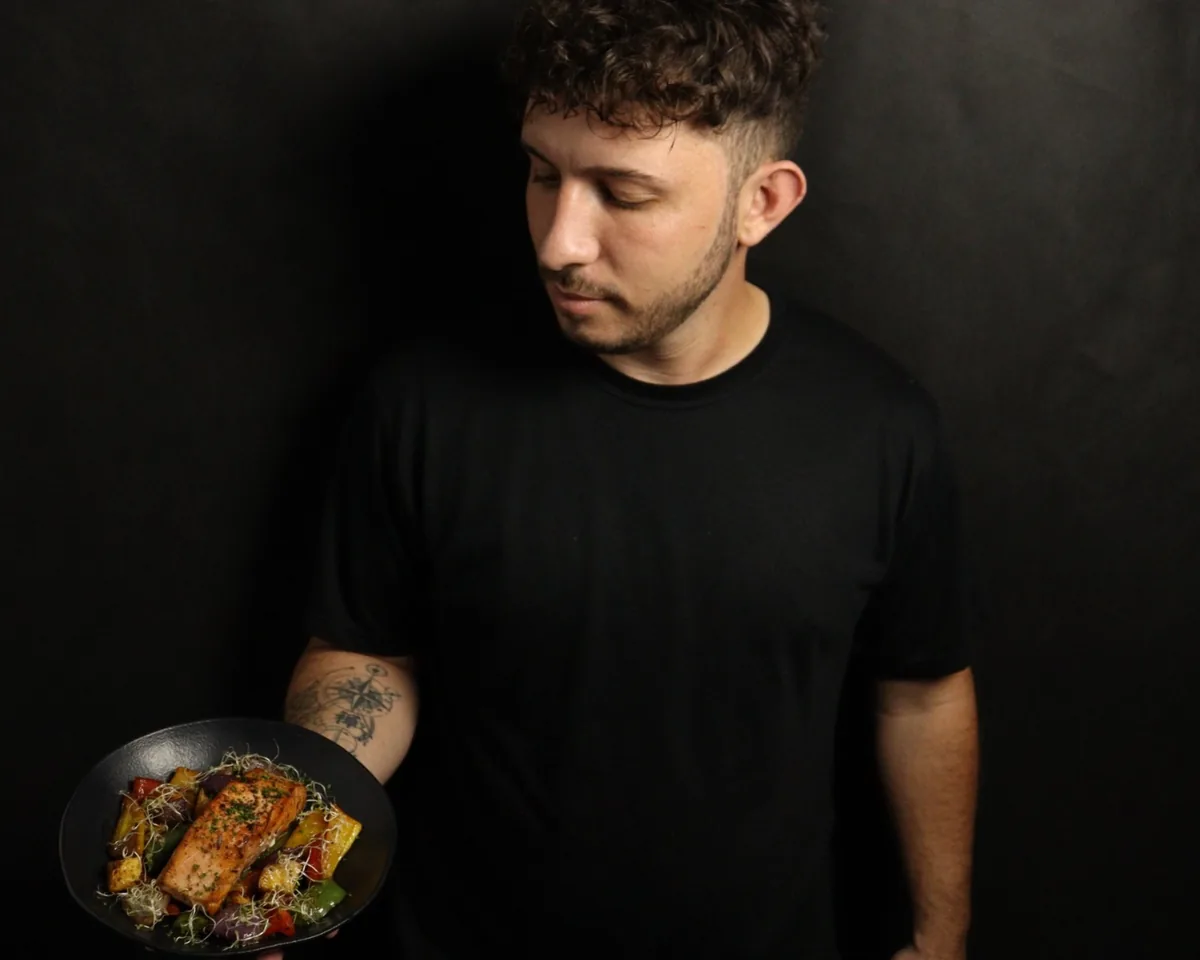
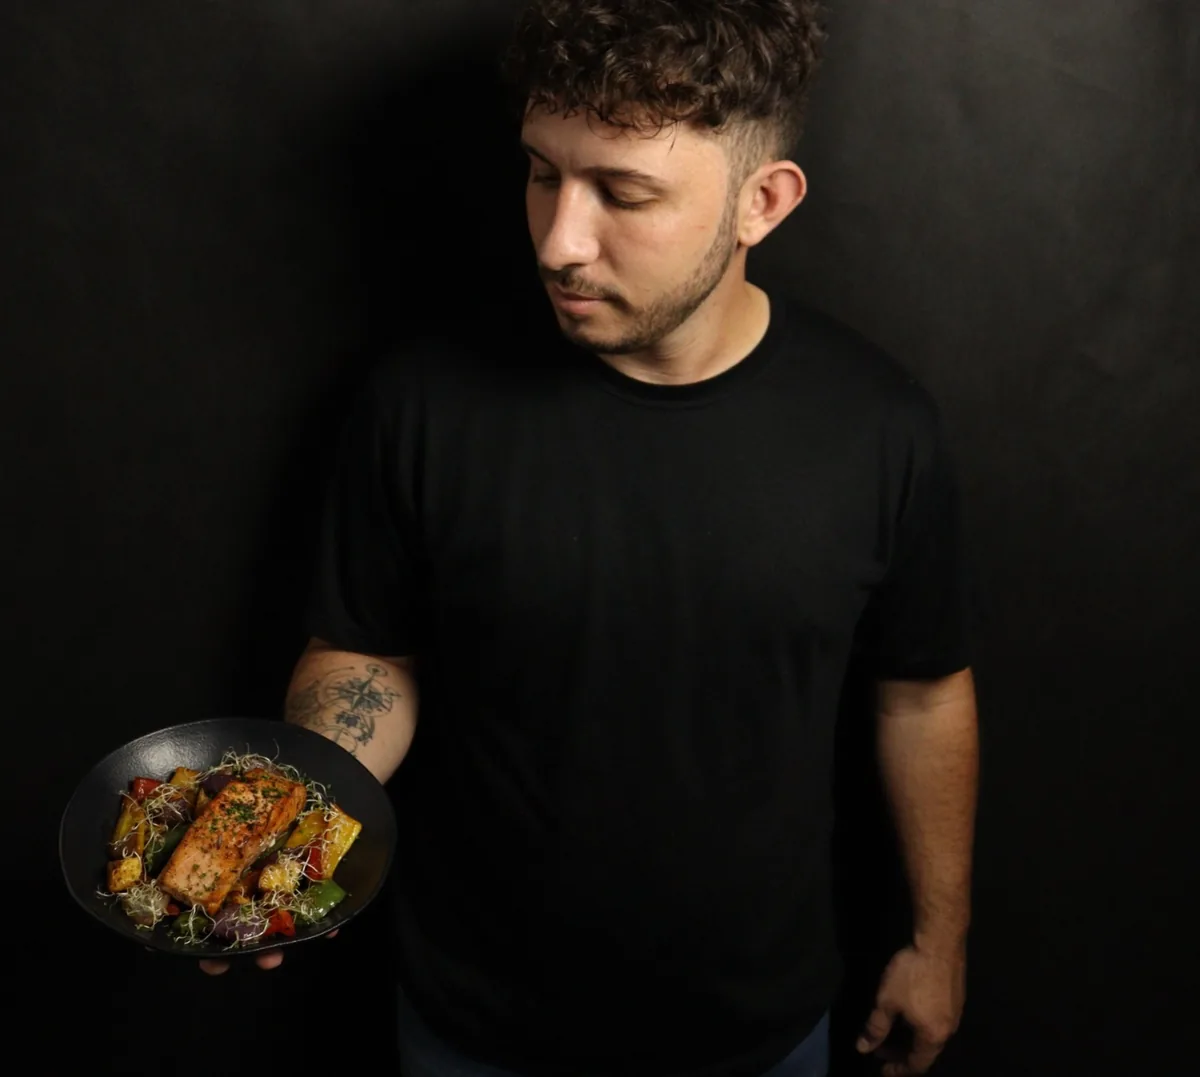
feat: autorização opcional de marketing, CNPJ no rodapé e foto do Chef sem corte
- Formulários (início, Contato e gaveta): caixa opcional e desmarcada
  "Autorizo o uso dos meus dados para receber novidades, promoções e conteúdos
  de marketing"; a resposta vai no pedido como item 7 (sim/não)
- Aviso dos formulários e Política de Privacidade explicam o uso para marketing
  com consentimento e como cancelar (política atualizada em 31/10/2026)
- CNPJ 69.543.105/0001-93 no rodapé e nas políticas
- Quem somos: foto pequena do Chef inteira, sem recorte (prato e braço visíveis)
- README: mensagem de exemplo e pendências atualizadas

Changed region(s): [[0.0617, 0.5938, 0.37, 1.0], [0.4317, 0.0312, 0.6783, 0.4062], [0.6475, 0.625, 0.8325, 1.0]]

diff --git a/privacidade.html b/privacidade.html
@@ -86,18 +86,19 @@
         <p class="eyebrow reveal">Documentos</p>
         <h1 class="reveal" id="page-title" style="--delay: .1s">Política de Privacidade</h1>
         <p class="lead reveal" style="--delay: .2s">Como a CJR Gastronomia trata os seus dados pessoais, de acordo com a Lei Geral de Proteção de Dados (Lei nº 13.709/2018).</p>
-        <p class="page-hero__meta reveal" style="--delay: .3s"><span>Última atualização: 29 de outubro de 2026</span><span>Leitura: cerca de 7 minutos</span></p>
+        <p class="page-hero__meta reveal" style="--delay: .3s"><span>Última atualização: 31 de outubro de 2026</span><span>Leitura: cerca de 7 minutos</span></p>
       </div>
     </section>
     <div class="container legal-layout">
       <aside class="legal-toc reveal" aria-labelledby="toc-title"><p id="toc-title">Nesta página</p><ol data-legal-toc></ol></aside>
       <article class="prose reveal" data-legal-article aria-labelledby="page-title">
-        <div class="callout"><p><strong>Resumo em linguagem simples</strong></p><ul><li>Coletamos apenas o necessário para responder ao seu pedido de orçamento.</li><li>O formulário não envia nada a servidores do site: é você quem envia a mensagem pelo WhatsApp.</li><li>Estatísticas de uso (Google Analytics) só com a sua permissão.</li><li>Você pode pedir acesso, correção ou exclusão dos seus dados a qualquer momento.</li></ul></div>
+        <div class="callout"><p><strong>Resumo em linguagem simples</strong></p><ul><li>Coletamos apenas o necessário para responder ao seu pedido de orçamento.</li><li>O formulário não envia nada a servidores do site: é você quem envia a mensagem pelo WhatsApp.</li><li>Novidades e promoções (marketing) só se você marcar a autorização opcional do formulário, e você pode cancelar quando quiser.</li><li>Estatísticas de uso (Google Analytics) só com a sua permissão.</li><li>Você pode pedir acesso, correção ou exclusão dos seus dados a qualquer momento.</li></ul></div>
 <h2 id="quem-somos">Quem é o controlador dos dados</h2>
 <p>Este site e o atendimento dele decorrente são operados por <strong><span class="fill" data-legal="nomeFantasia" data-placeholder="[nome fantasia]">[nome fantasia]</span></strong>, razão social <span class="fill" data-legal="razaoSocial" data-placeholder="[razão social]">[razão social]</span>, CNPJ <span class="fill" data-legal="cnpj" data-placeholder="[CNPJ]">[CNPJ]</span>, com endereço em <span class="fill" data-legal="endereco" data-placeholder="[endereço]">[endereço]</span>, <span class="fill" data-legal="cidadeUf" data-placeholder="[cidade/UF]">[cidade/UF]</span>, responsável: <span class="fill" data-legal="responsavel" data-placeholder="[nome do responsável]">[nome do responsável]</span> ("CJR Gastronomia" ou "nós"). Para assuntos de privacidade, fale conosco pelo e-mail <span class="fill" data-legal="email" data-placeholder="[e-mail de contato]">[e-mail de contato]</span> ou pelo WhatsApp (48) 99683-5439.</p>
 <h2 id="dados">Quais dados coletamos</h2>
 <ul>
 <li><strong>Dados do pedido de orçamento</strong>: nome, local do evento, data, número de convidados, observações e serviços de interesse. Esses dados <strong>não são enviados a nenhum servidor do site</strong>: ficam apenas na página aberta no seu navegador até você tocar em "Enviar pelo WhatsApp", quando são inseridos na mensagem que você mesmo envia.</li>
+<li><strong>Autorização de marketing (opcional)</strong>: se você marcar a caixa do formulário, a mensagem informa que você aceita receber novidades, promoções e conteúdos de marketing. A caixa vem desmarcada e não é necessária para pedir orçamento.</li>
 <li><strong>Dados da conversa no WhatsApp</strong>: número de telefone, nome de perfil e o conteúdo das mensagens trocadas conosco.</li>
 <li><strong>Armazenamento no seu navegador</strong>: a lista de serviços escolhidos e a sua escolha sobre cookies (veja a <a href="cookies.html">Política de Cookies</a>).</li>
 <li><strong>Dados de navegação, somente com o seu consentimento</strong>: páginas visitadas, cliques em botões, tipo de dispositivo e localização aproximada, por meio do Google Analytics. Nunca enviamos nome, telefone ou local do evento ao Google Analytics.</li>
@@ -112,10 +113,11 @@
 <tr><td>Executar o serviço contratado (planejamento, preparo, montagem e atendimento)</td><td>Execução de contrato (art. 7º, V)</td></tr>
 <tr><td>Emitir documentos fiscais e cumprir obrigações legais</td><td>Cumprimento de obrigação legal ou regulatória (art. 7º, II)</td></tr>
 <tr><td>Defender direitos em processos judiciais, administrativos ou arbitrais</td><td>Exercício regular de direitos (art. 7º, VI)</td></tr>
+<tr><td>Enviar novidades, promoções e conteúdos de marketing, se você autorizar no formulário</td><td>Consentimento (art. 7º, I), que pode ser revogado a qualquer momento</td></tr>
 <tr><td>Medir o uso do site (Google Analytics)</td><td>Consentimento (art. 7º, I)</td></tr>
 <tr><td>Adaptar o cardápio a restrições alimentares informadas por você</td><td>Consentimento específico (art. 11, I)</td></tr>
 </tbody></table></div>
-<p>Não usamos seus dados para publicidade e não vendemos dados pessoais.</p>
+<p>Só usamos seus dados para marketing com a sua autorização. Para cancelar, basta pedir pelo WhatsApp, a qualquer momento, sem prejuízo do seu orçamento ou contrato. Não vendemos dados pessoais.</p>
 <h2 id="compartilhamento">Com quem compartilhamos</h2>
 <ul>
 <li><strong>WhatsApp (Meta)</strong>: plataforma de mensagens que você escolhe usar para falar conosco, regida também pela política de privacidade do WhatsApp.</li>
@@ -129,6 +131,7 @@
 <ul>
 <li>Conversas de orçamento não contratado: até <span class="fill">[12 meses]</span> após o último contato.</li>
 <li>Dados de clientes e documentos fiscais: pelo prazo exigido pela legislação e para defesa de direitos.</li>
+<li>Dados usados para marketing, quando autorizados: até você cancelar a autorização.</li>
 <li>Registros de acesso ao site: 6 meses (art. 15 do Marco Civil da Internet).</li>
 <li>Lista de serviços salva no navegador: até você removê-la ou limpar os dados do navegador. Escolha de cookies: 12 meses.</li>
 <li>Dados do Google Analytics, quando autorizados: <span class="fill">[prazo configurado no Google Analytics, ex.: 14 meses]</span>.</li>

diff --git a/assets/js/leadform.js b/assets/js/leadform.js
@@ -20,6 +20,8 @@
 
   /** Detalhes do evento compartilhados entre os formulários da página (somente em memória). */
   let details = {};
+  /** Autorização de marketing: opcional e desmarcada por padrão (LGPD, consentimento livre). */
+  let marketing = false;
   const forms = [];
 
   function todayIso() {
@@ -71,8 +73,18 @@
     ]);
   }
 
+  function buildConsent(form) {
+    const id = `${form.id}-marketing`;
+    const box = el('input', { id, name: 'marketing', type: 'checkbox', value: 'sim' });
+    const label = el('label', { for: id }, [
+      'Autorizo o uso dos meus dados para receber novidades, promoções e conteúdos de marketing da CJR Gastronomia. Posso cancelar quando quiser. ',
+      el('span', { className: 'field__optional', text: '(opcional)' }),
+    ]);
+    return el('div', { className: 'lead-form__consent' }, [box, label]);
+  }
+
   function buildPrivacyNote() {
-    const note = el('p', { className: 'lead-form__privacy' }, ['Usamos estes dados só para preparar o seu orçamento. Ao enviar, o WhatsApp abre com a mensagem pronta e nada fica gravado neste site. Veja a ']);
+    const note = el('p', { className: 'lead-form__privacy' }, ['Usamos estes dados para preparar o seu orçamento e, só se você marcar a autorização de marketing, para enviar novidades e promoções. Ao enviar, o WhatsApp abre com a mensagem pronta e nada fica gravado neste site. Veja a ']);
     note.append(el('a', { href: 'privacidade.html', text: 'Política de Privacidade' }), '.');
     return note;
   }
@@ -81,6 +93,7 @@
     const grid = el('div', { className: 'lead-form__grid' }, FIELDS.map((field) => buildField(form, field)));
     form.append(grid);
     if (form.dataset.showServices !== undefined) form.append(buildServicesBox());
+    form.append(buildConsent(form));
     if (form.dataset.externalSubmit === undefined) {
       const submit = el('button', { className: 'btn btn--gold btn--lg btn--block', type: 'submit' });
       submit.innerHTML = '<svg aria-hidden="true"><use href="#i-whatsapp"/></svg>';
@@ -107,6 +120,11 @@
   }
 
   function onInput(form, event) {
+    if (event.target.name === 'marketing') {
+      marketing = event.target.checked;
+      forms.filter((other) => other !== form).forEach((other) => { other.elements.namedItem('marketing').checked = marketing; });
+      return;
+    }
     const field = FIELDS.find((f) => f.name === event.target.name);
     if (!field) return;
     details = { ...details, [field.name]: event.target.value };
@@ -126,7 +144,10 @@
       form.elements.namedItem(invalid[0].name).focus();
       return false;
     }
-    const values = Object.fromEntries(FIELDS.map((f) => [f.name, form.elements.namedItem(f.name).value.trim()]));
+    const values = {
+      ...Object.fromEntries(FIELDS.map((f) => [f.name, form.elements.namedItem(f.name).value.trim()])),
+      marketing: form.elements.namedItem('marketing').checked,
+    };
     const items = site.quote.items();
     const cta = form.dataset.cta || 'form';
     showStatus(form, site.whatsapp.open(site.whatsapp.leadMessage(values, items, cta), cta));
@@ -148,6 +169,7 @@
     if (!form || forms.includes(form)) return;
     buildForm(form);
     Object.entries(details).forEach(([name, value]) => { const input = form.elements.namedItem(name); if (input) input.value = value; });
+    form.elements.namedItem('marketing').checked = marketing;
     form.noValidate = true;
     form.addEventListener('input', (event) => onInput(form, event));
     form.addEventListener('focusout', (event) => {

diff --git a/assets/css/components.css b/assets/css/components.css
@@ -23,6 +23,9 @@
 .lead-form__services-label { margin-bottom: 0.5rem; font-size: 0.9375rem; font-weight: 600; color: var(--c-ink); }
 .lead-form__services-empty { margin-bottom: 0.4rem; font-size: 0.9375rem; color: var(--c-muted); }
 .lead-form__services .chips { margin-bottom: 0.6rem; }
+.lead-form__consent { display: flex; align-items: flex-start; gap: 0.75rem; margin: 0 0 var(--space-3); }
+.lead-form__consent input { flex: none; width: 20px; height: 20px; margin: 0.15rem 0 0; accent-color: var(--c-gold-deep); cursor: pointer; }
+.lead-form__consent label { font-size: 0.875rem; line-height: 1.5; color: var(--c-ink); cursor: pointer; }
 .lead-form__privacy { margin: var(--space-3) 0 0; font-size: 0.8125rem; line-height: 1.55; color: var(--c-muted); }
 .lead-form__privacy a { color: var(--c-gold-deep); font-weight: 600; }
 .lead-form__status { margin: var(--space-3) 0 0; font-size: 0.9375rem; color: var(--c-ink); }

diff --git a/index.html b/index.html
@@ -385,7 +385,7 @@
             <img src="assets/img/chef.webp" alt="Chef Carlos Junior de dólmã branco, de braços cruzados, em fundo escuro" width="960" height="1200" loading="lazy">
           </figure>
           <figure class="about__team reveal" style="--delay: .2s">
-            <img src="assets/img/chef-prato.webp" alt="Chef Carlos Junior de camiseta preta segurando um prato de salmão com legumes" width="1200" height="960" loading="lazy">
+            <img src="assets/img/chef-prato.webp" alt="Chef Carlos Junior de camiseta preta segurando um prato de salmão com legumes" width="1200" height="1077" loading="lazy">
           </figure>
           <p class="about__badge reveal" style="--delay: .35s"><span><strong data-count="12">12</strong>anos de experiência</span></p>
         </div>

diff --git a/assets/css/home.css b/assets/css/home.css
@@ -78,7 +78,7 @@
 .about__portrait img { width: 100%; height: 100%; object-fit: cover; transition: transform 1.6s var(--ease-out); }
 .about__portrait:hover img { transform: scale(1.04); }
 .about__team { position: absolute; right: 0; bottom: 0; width: 54%; margin: 0; padding: 0.5rem; border-radius: var(--radius); background: var(--c-paper); box-shadow: var(--shadow); }
-.about__team img { aspect-ratio: 5 / 4; object-fit: cover; border-radius: 8px; }
+.about__team img { border-radius: 8px; }
 .about__badge {
   position: absolute; top: 6%; right: 2%; display: grid; place-items: center; width: clamp(104px, 12vw, 132px); aspect-ratio: 1;
   border: 1px solid rgba(232, 200, 130, 0.5); border-radius: 50%; background: var(--c-ink); color: var(--c-paper);

diff --git a/assets/js/whatsapp.js b/assets/js/whatsapp.js
@@ -87,6 +87,7 @@
       `*4. Convidados:* ${guests} ${guests === 1 ? 'pessoa' : 'pessoas'}`,
       ...services,
       `*6. Observações:* ${details.observacao || 'nenhuma'}`,
+      `*7. Autoriza uso dos dados para marketing:* ${details.marketing ? 'sim' : 'não'}`,
       '',
       `Origem: ${originLabel(cta)}`,
       `Enviado pelo site em ${sentAt()}`,

diff --git a/assets/js/config.js b/assets/js/config.js
@@ -25,7 +25,7 @@ window.ChefSite.config = Object.freeze({
   legal: Object.freeze({
     nomeFantasia: 'CJR Gastronomia',
     razaoSocial: '',
-    cnpj: '',
+    cnpj: '69.543.105/0001-93',
     endereco: '',
     cidadeUf: '',
     email: '',

diff --git a/scripts/build_legal.py b/scripts/build_legal.py
@@ -29,9 +29,11 @@ PAGES = {
         "title": "Política de Privacidade",
         "lead": "Como a CJR Gastronomia trata os seus dados pessoais, de acordo com a Lei Geral de Proteção de Dados (Lei nº 13.709/2018).",
         "minutes": 7,
+        "updated": "31 de outubro de 2026",
         "summary": [
             "Coletamos apenas o necessário para responder ao seu pedido de orçamento.",
             "O formulário não envia nada a servidores do site: é você quem envia a mensagem pelo WhatsApp.",
+            "Novidades e promoções (marketing) só se você marcar a autorização opcional do formulário, e você pode cancelar quando quiser.",
             "Estatísticas de uso (Google Analytics) só com a sua permissão.",
             "Você pode pedir acesso, correção ou exclusão dos seus dados a qualquer momento.",
         ],
@@ -39,6 +41,7 @@ PAGES = {
             ("quem-somos", "Quem é o controlador dos dados", f"<p>Este site e o atendimento dele decorrente são operados por {CONTROLLER} (\"CJR Gastronomia\" ou \"nós\"). Para assuntos de privacidade, fale conosco {CHANNEL}.</p>"),
             ("dados", "Quais dados coletamos", f"""<ul>
 <li><strong>Dados do pedido de orçamento</strong>: nome, local do evento, data, número de convidados, observações e serviços de interesse. Esses dados <strong>não são enviados a nenhum servidor do site</strong>: ficam apenas na página aberta no seu navegador até você tocar em "Enviar pelo WhatsApp", quando são inseridos na mensagem que você mesmo envia.</li>
+<li><strong>Autorização de marketing (opcional)</strong>: se você marcar a caixa do formulário, a mensagem informa que você aceita receber novidades, promoções e conteúdos de marketing. A caixa vem desmarcada e não é necessária para pedir orçamento.</li>
 <li><strong>Dados da conversa no WhatsApp</strong>: número de telefone, nome de perfil e o conteúdo das mensagens trocadas conosco.</li>
 <li><strong>Armazenamento no seu navegador</strong>: a lista de serviços escolhidos e a sua escolha sobre cookies (veja a <a href="cookies.html">Política de Cookies</a>).</li>
 <li><strong>Dados de navegação, somente com o seu consentimento</strong>: páginas visitadas, cliques em botões, tipo de dispositivo e localização aproximada, por meio do Google Analytics. Nunca enviamos nome, telefone ou local do evento ao Google Analytics.</li>
@@ -52,10 +55,11 @@ PAGES = {
 <tr><td>Executar o serviço contratado (planejamento, preparo, montagem e atendimento)</td><td>Execução de contrato (art. 7º, V)</td></tr>
 <tr><td>Emitir documentos fiscais e cumprir obrigações legais</td><td>Cumprimento de obrigação legal ou regulatória (art. 7º, II)</td></tr>
 <tr><td>Defender direitos em processos judiciais, administrativos ou arbitrais</td><td>Exercício regular de direitos (art. 7º, VI)</td></tr>
+<tr><td>Enviar novidades, promoções e conteúdos de marketing, se você autorizar no formulário</td><td>Consentimento (art. 7º, I), que pode ser revogado a qualquer momento</td></tr>
 <tr><td>Medir o uso do site (Google Analytics)</td><td>Consentimento (art. 7º, I)</td></tr>
 <tr><td>Adaptar o cardápio a restrições alimentares informadas por você</td><td>Consentimento específico (art. 11, I)</td></tr>
 </tbody></table></div>
-<p>Não usamos seus dados para publicidade e não vendemos dados pessoais.</p>"""),
+<p>Só usamos seus dados para marketing com a sua autorização. Para cancelar, basta pedir pelo WhatsApp, a qualquer momento, sem prejuízo do seu orçamento ou contrato. Não vendemos dados pessoais.</p>"""),
             ("compartilhamento", "Com quem compartilhamos", """<ul>
 <li><strong>WhatsApp (Meta)</strong>: plataforma de mensagens que você escolhe usar para falar conosco, regida também pela política de privacidade do WhatsApp.</li>
 <li><strong>Google</strong>: apenas se você aceitar cookies de estatística (Google Analytics).</li>
@@ -66,6 +70,7 @@ PAGES = {
             ("retencao", "Por quanto tempo guardamos", f"""<ul>
 <li>Conversas de orçamento não contratado: até {F('12 meses')} após o último contato.</li>
 <li>Dados de clientes e documentos fiscais: pelo prazo exigido pela legislação e para defesa de direitos.</li>
+<li>Dados usados para marketing, quando autorizados: até você cancelar a autorização.</li>
 <li>Registros de acesso ao site: 6 meses (art. 15 do Marco Civil da Internet).</li>
 <li>Lista de serviços salva no navegador: até você removê-la ou limpar os dados do navegador. Escolha de cookies: 12 meses.</li>
 <li>Dados do Google Analytics, quando autorizados: {F('prazo configurado no Google Analytics, ex.: 14 meses')}.</li>
@@ -219,7 +224,7 @@ def render(name, page, parts):
         <p class="eyebrow reveal">Documentos</p>
         <h1 class="reveal" id="page-title" style="--delay: .1s">{page['title']}</h1>
         <p class="lead reveal" style="--delay: .2s">{page['lead']}</p>
-        <p class="page-hero__meta reveal" style="--delay: .3s"><span>Última atualização: {UPDATED}</span><span>Leitura: cerca de {page['minutes']} minutos</span></p>
+        <p class="page-hero__meta reveal" style="--delay: .3s"><span>Última atualização: {page.get('updated', UPDATED)}</span><span>Leitura: cerca de {page['minutes']} minutos</span></p>
       </div>
     </section>
     <div class="container legal-layout">

diff --git a/README.md b/README.md
@@ -50,9 +50,10 @@ Vêm da pasta **Site** do Google Drive do Chef, com uma subpasta por bloco de se
 *3. Data do evento:* 12/12/2026 (sábado), daqui a 44 dias
 *4. Convidados:* 80 pessoas
 *5. Serviços de interesse:*
-   5.1. Mesas e ilhas de frios
+   5.1. Mesa de frios
    5.2. Finger foods
 *6. Observações:* ...
+*7. Autoriza uso dos dados para marketing:* sim
 Origem: Meu orçamento (gaveta lateral)
 ```
 
@@ -89,7 +90,7 @@ Com uma ou mais avaliações, a seção vira um carrossel com setas e arraste.
 
 ## Pendências antes de publicar
 
-- [ ] **Dados legais** em `config.js > legal` (CNPJ, razão social, endereço, e-mail). Enquanto vazios, aparecem em vermelho nas políticas.
+- [ ] **Dados legais** em `config.js > legal` (razão social, endereço, cidade/UF, e-mail; o CNPJ 69.543.105/0001-93 já está preenchido e aparece no rodapé). Enquanto vazios, aparecem em vermelho nas políticas.
 - [ ] **Decisões do negócio** marcadas em vermelho em `termos.html` e `reembolso.html` (prazos, percentuais, validade da proposta, sinal, formas de pagamento, foro). Edite em `scripts/build_legal.py` e rode `python scripts/build_legal.py` (ou edite direto no HTML).
 - [ ] **Revisão jurídica** das quatro políticas por advogado(a). Os textos seguem a LGPD, o CDC e o Marco Civil, mas são modelos.
 - [ ] **GA4**: se for usar, preencha `ga4Id` e defina a retenção de dados no Google Analytics.
@@ -102,6 +103,7 @@ Com uma ou mais avaliações, a seção vira um carrossel com setas e arraste.
 **LGPD.**
 - O formulário coleta só o necessário e não grava dados: a mensagem sai pelo WhatsApp por ação do próprio visitante.
 - Há aviso de privacidade nos formulários.
+- Uso para marketing só com a caixa opcional "Autorizo o uso dos meus dados para receber novidades, promoções e conteúdos de marketing", que vem desmarcada, não bloqueia o pedido e vai na mensagem como item 7 (sim/não). A Política de Privacidade explica a finalidade e como cancelar.
 - O banner de consentimento tem "Recusar" com o mesmo destaque de "Aceitar" e preferências reabríveis no rodapé.
 - O GA4 só carrega com consentimento, em Consent Mode.
 - Recusar apaga os cookies `_ga`.
